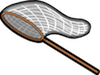
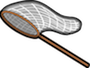
Edited cursor image to make smaller; added timer; added repeating butterflies; added bones of high score function and div. Fixed: no longer need to push start to generate new random butterfly, clicking on whole div no longer registers as correct, changed semantics of class name controlling butterfly

diff --git a/public/index.html b/public/index.html
@@ -20,45 +20,46 @@
 
     <div class="row">
         <div class="col-xs-12 main-head">Catch-a-Butterfly</div>
-        <div class="high-score">High Score: </div>
+        <div class="high-score"></div>
     </div>
 
     <div class="row">
-        <div class="col-xs-12 status text">Score: </div>
+        <div class="col-xs-12 status score">Score: </div>
+        <div class="end"></div>
     </div>
     <div class="row">
         <div class="cage">
-            <div class="col-md-4 make-visible butterfly" data-index="0"><img src="/img/monarchLeft.png"></div>
+            <div class="col-md-4 invisible butterfly" data-index="0"><img src="/img/monarchLeft.png"></div>
         </div>
         <div class="cage">
-            <div class="col-md-4 make-visible butterfly" data-index="1"><img src="/img/blueCenterButterfly.png"></div>
+            <div class="col-md-4 invisible butterfly" data-index="1"><img src="/img/blueCenterButterfly.png"></div>
         </div>
         <div class="cage">
-            <div class="col-md-4 make-visible butterfly" data-index="2"><img src="/img/blueRightButterfly.png"></div>
-        </div>
-    </div>
-
-    <div class="row">
-        <div class="cage">
-            <div class="col-md-4 make-visible butterfly" data-index="3"><img src="/img/pinkLeftButterfly.png"></div>
-        </div>
-        <div class="cage">
-            <div class="col-md-4 make-visible butterfly" data-index="4"><img src="/img/iridCenterButterfly.png"></div>
-        </div>
-        <div class="cage">
-            <div class="col-md-4 make-visible butterfly" data-index="5"><img src="/img/purpleRightButterfly.png"></div>
+            <div class="col-md-4 invisible butterfly" data-index="2"><img src="/img/blueRightButterfly.png"></div>
         </div>
     </div>
 
     <div class="row">
         <div class="cage">
-            <div class="col-md-4 make-visible butterfly" data-index="6"><img src="/img/yellowLeftButterfly.png"></div>
+            <div class="col-md-4 invisible butterfly" data-index="3"><img src="/img/pinkLeftButterfly.png"></div>
         </div>
         <div class="cage">
-            <div class="col-md-4 make-visible butterfly" data-index="7"><img src="/img/purpleCenterButterfly.png"></div>
+            <div class="col-md-4 invisible butterfly" data-index="4"><img src="/img/iridCenterButterfly.png"></div>
         </div>
         <div class="cage">
-            <div class="col-md-4 make-visible butterfly" data-index="8"><img src="/img/multiRightButterfly.png"></div>
+            <div class="col-md-4 invisible butterfly" data-index="5"><img src="/img/purpleRightButterfly.png"></div>
+        </div>
+    </div>
+
+    <div class="row">
+        <div class="cage">
+            <div class="col-md-4 invisible butterfly" data-index="6"><img src="/img/yellowLeftButterfly.png"></div>
+        </div>
+        <div class="cage">
+            <div class="col-md-4 invisible butterfly" data-index="7"><img src="/img/purpleCenterButterfly.png"></div>
+        </div>
+        <div class="cage">
+            <div class="col-md-4 invisible butterfly" data-index="8"><img src="/img/multiRightButterfly.png"></div>
         </div>
     </div>
 
@@ -81,44 +82,85 @@ $(document).ready(function() {
  
     // var for later grabbing all elements by class
     var butterfly = $(".butterfly");
-    console.log(butterfly);
 
     // variable for game count
     var score = 0;
 
-    // to make butterflies appear
+    var highScore = 0;
+
+    // get "highScore" from localStorage
+    localStorage.getItem("highScore");
+    // if "highScore" from localStorage exists assign highScore the value from localStorage
+        if ("highScore", highScore) {
+            localStorage.setItem("highScore");
+        };
+
+    var disappear;
+
+    
+    // var for endgame stuff: remove listeners, show user a failure thing
+    var endGame = function(){
+        $(".butterfly").off("click");
+        $(".end").html("Game Over");
+        clearTimeout(disappear);
+        var currentScore = score;
+            if (currentScore > highScore) {
+                $(".high-score").html(currentScore);
+                localStorage.setItem("highScore");
+            };
+    };
+
+    // to make butterfly appear
     var flashButterfly = function() {
         // randomize a numerical value from 0-7 for boxes
         var random = Math.floor(Math.random()*8);
-            console.log(random);
-        butterfly.eq(random).removeClass("make-visible");
+        butterfly.eq(random).removeClass("invisible");
 
-        var disappear = setTimeout(function(){
-            butterfly.eq(random).addClass("make-visible");
-        }, 3000);
+        // to vanish butterfly
+        disappear = setTimeout(function(){
+            butterfly.eq(random).addClass("invisible");
+            // repeats flashButterfly function again
+                // recursive, repeats over and over 
+            flashButterfly();
+        }, 1000);
     };
 
     // click listener and game start
     $("#start").click(function(event) {
+
         // removes listeners of start click event
         $(".butterfly").off("click");
-        console.log("start clicked");
+
+        // reset and display score
+        score = 0;
+        $(".status").html("Score: " + score);
+    
+        // to set timer and butterfly interval
+        var currentScore = score;
+        var timer = 30;
+        var timerInterval = setInterval(function(){
+            $(".end").html(timer + " secs");
+            timer--;
+            // stops interval so butterflies don't repeat infinity
+            if (timer==0) {
+                clearInterval(timerInterval);
+                endGame();
+            };
+        }, 1000);
+
         flashButterfly();
 
         // click listener for boxes
-        $(".butterfly").click(function(){
-            butterfly.addClass("make-visible");
+        $(".butterfly").click(function(){     
+            butterfly.addClass("invisible");
             score++;
             $(".status").html("Score: " + score);
+            $(".end").html("");
+
+        
         });
+
     });
-
-// fix scoring
-// change to automatic repetitions and incrementing after intial start
-    // ie, after score =5 increase to 2, etc.
-
-
-
 
 
 });

diff --git a/public/css/whackamole.css b/public/css/whackamole.css
@@ -15,13 +15,16 @@ body {
     width: 50%;
 }
 
-.high-score {
+.high-score, .end {
     display: inline-block;
     width: 50%;
+    font-size: 2em;
+    text-align: right;
 }
 
-.text {
-    font-size: 2em
+.score {
+    font-size: 2em;
+    width: 50%;
 }
 
 .cage {
@@ -39,8 +42,9 @@ button {
     color: #2d2518;
     border: 1px solid #2d2518;
     margin-top: 50px;
+    font-size: 2em;
 }
 
-.make-visible img {
+.invisible img {
     opacity: 0;
 }
